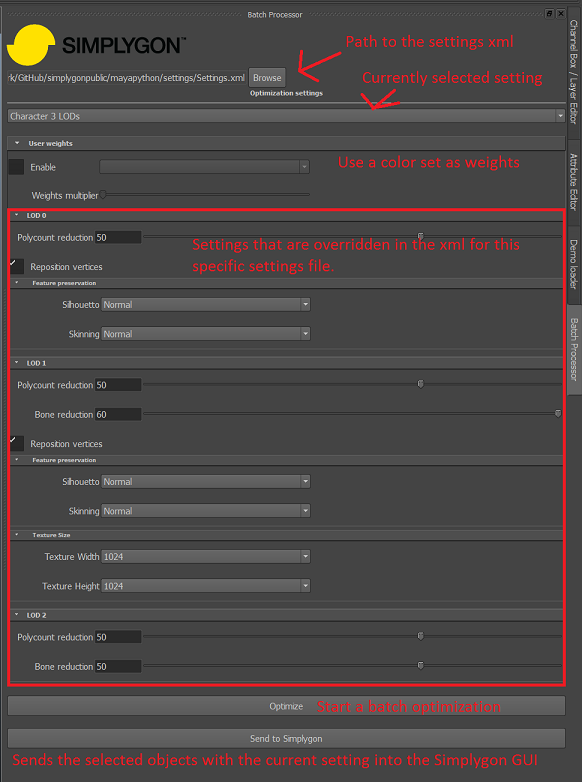
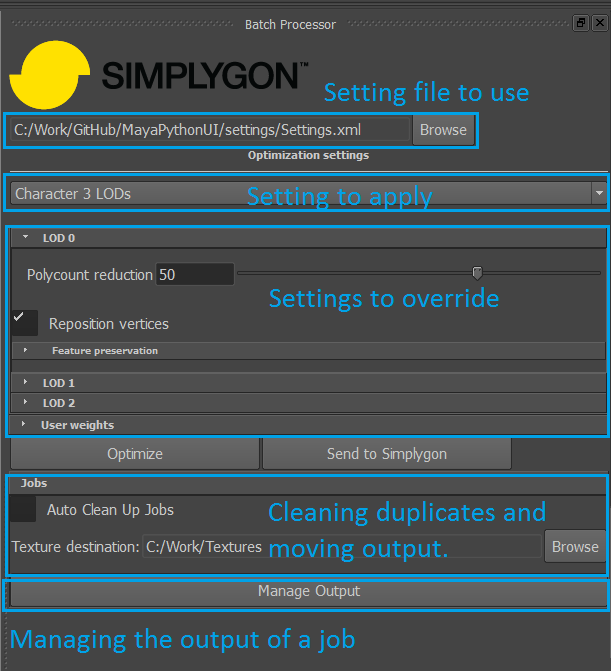
Improved the readme

diff --git a/README.md b/README.md
@@ -65,6 +65,26 @@ Here are the steps on how to do that in Maya:
 
 ![Alt text](images/optimizedsphere.png?raw=true "Optimized sphere")
 
+##Job cleaning
+The job management section of the script allows you to move textures, clean out duplicates, create layers and break apart LODs. If this is all you're interested in you can just use the data folder of the scripts. Starting process by calling runJob on SimplygonJob. This will create data structures for all the textures, materials and objects that was created during job and also give you some actions you can apply to them.
+Here is a small sample script that utilizes that functionality:
+```
+import sys
+sys.path.append( 'c:/Work/GitHub/MayaPythonUI/scripts/data' )
+from simplygonjob import SimplygonJob
+from processdirectives import ProcessDirectives
+
+job = SimplygonJob()
+directives = ProcessDirectives()
+directives.settingFile = "c:/Work/GitHub/MayaPythonUI/settings/Character 3 LODs.ini" 
+directives.batchMode = True
+directives.useWeights = False
+job.runJob(directives)
+#Clean out any duplicates
+job.pruneTexturesAndMaterials()
+```
+
+
 
 ##Instructions to create your own settings and XML
 After you have created a number of presets (.ini files) through the Simplygon interface you need to create an XML file to wrap the setting files. An example can be viewed in the Settings folder of the repository.
